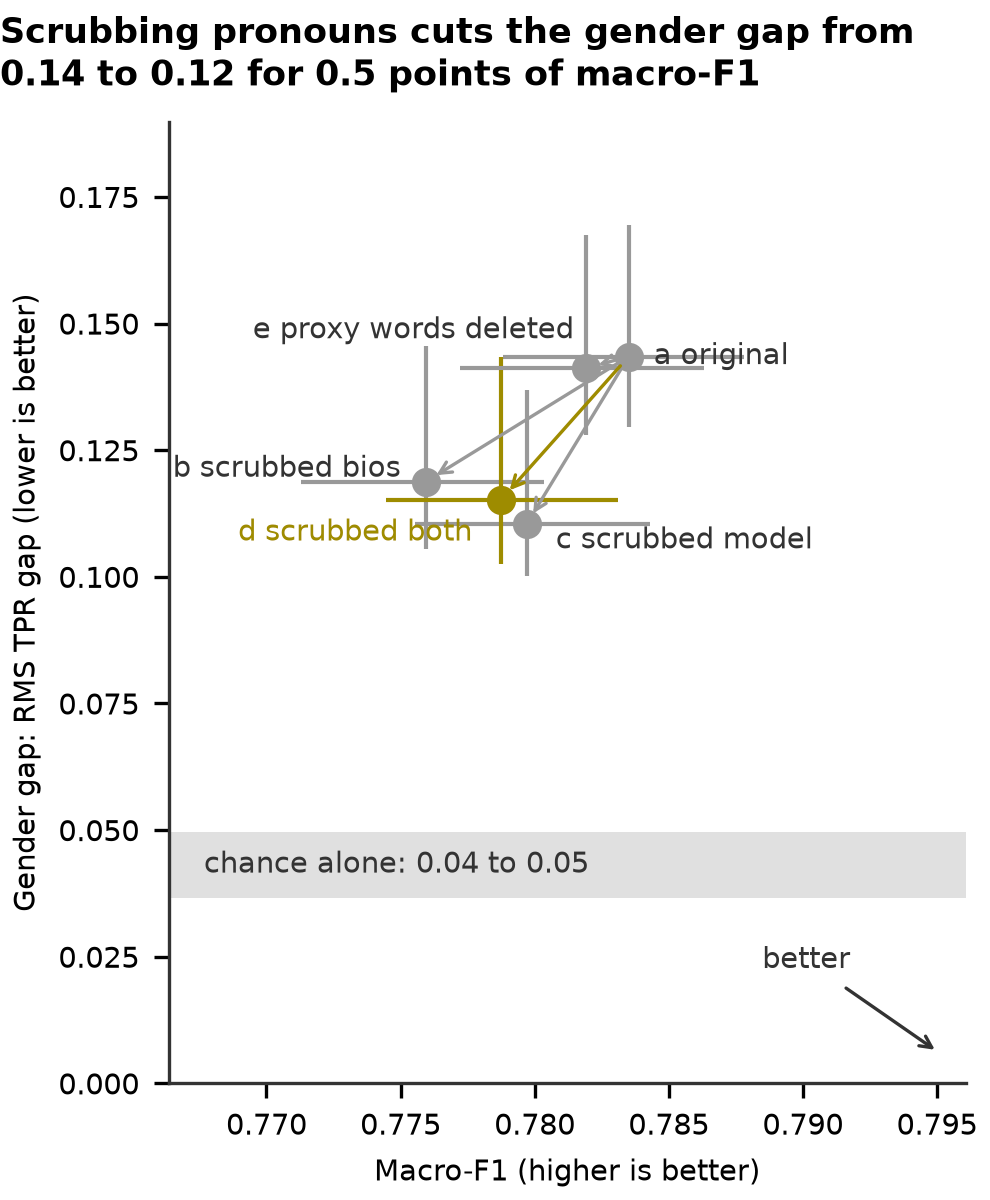
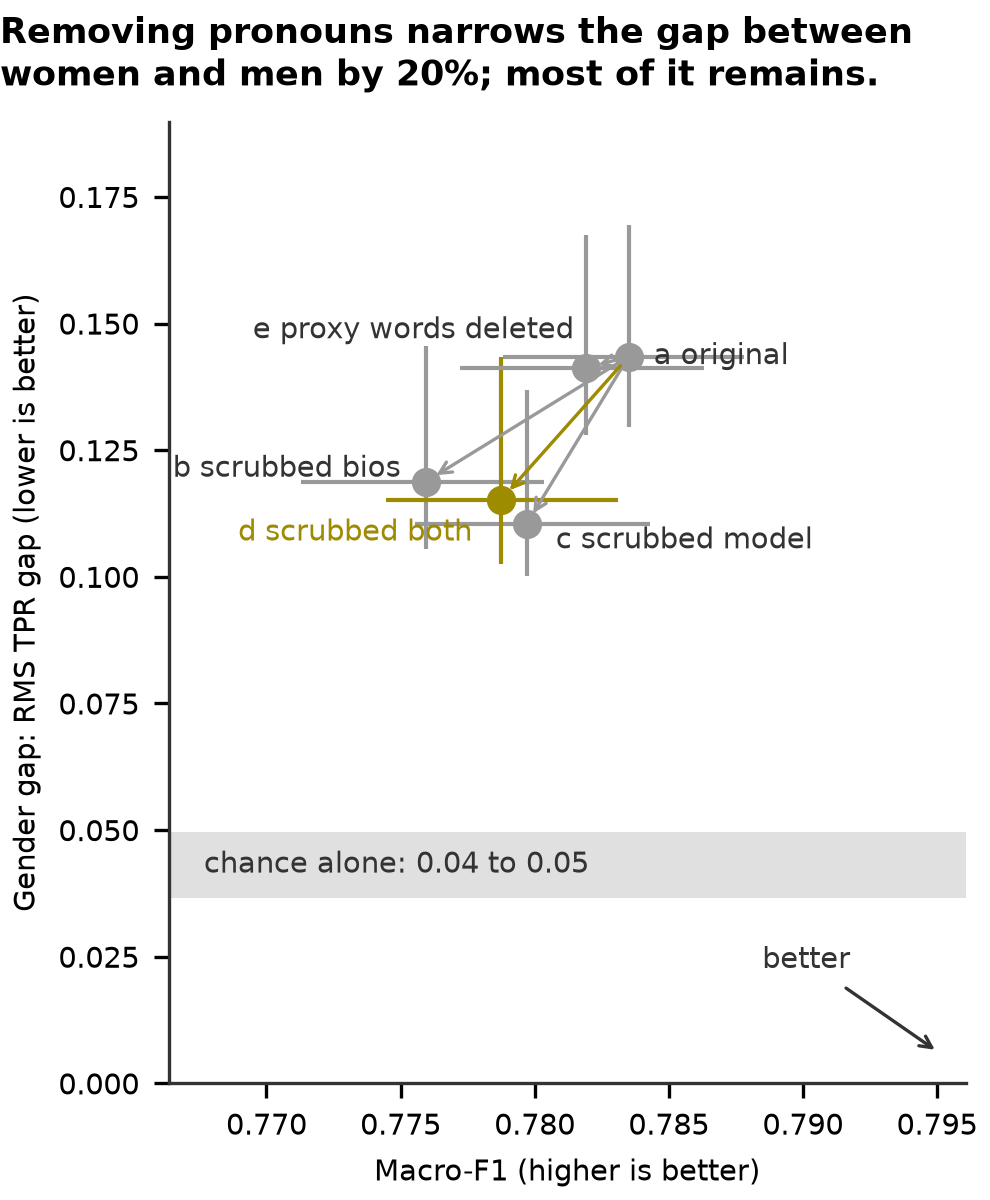
feat: F7 title states the finding in plain words; README says deleting proxy words barely moves the gap

Changed region(s): [[0.0, 0.0, 0.9091, 0.0925]]

diff --git a/scripts/figure_f7.py b/scripts/figure_f7.py
@@ -41,27 +41,20 @@ def _verdict(change: dict) -> int:
 
 
 def title(report: dict) -> str:
-    """The finding for condition d: what scrubbing does to the gap and to macro-F1.
+    """The finding for condition d, in plain words: by how much scrubbing changes the gap.
 
-    The gap and macro-F1 "fall" or "rise" only when the interval of the paired change excludes 0.
+    The gap narrows or widens only when the interval of the paired change excludes 0.
     """
-    block = _block(report, HEADLINE)
-    gap_change = block["change_from_a"]["rms_tpr_gap"]
-    f1_change = block["change_from_a"]["macro_f1"]
     before = _block(report, ORIGINAL)["rms_tpr_gap"]["value"]
-    after = block["rms_tpr_gap"]["value"]
-    gap = {
-        -1: f"cuts the gender gap from {before:.2f} to {after:.2f}",
-        0: f"does not change the gender gap ({before:.2f} to {after:.2f})",
-        1: f"raises the gender gap from {before:.2f} to {after:.2f}",
-    }[_verdict(gap_change)]
-    points = abs(f1_change["value"]) * 100
-    accuracy = {
-        -1: f"for {points:.1f} points of macro-F1",
-        0: "and leaves macro-F1 unchanged",
-        1: f"and macro-F1 by {points:.1f} points",
-    }[_verdict(f1_change)]
-    return f"Scrubbing pronouns {gap} {accuracy}"
+    after = _block(report, HEADLINE)["rms_tpr_gap"]["value"]
+    change = round(100 * abs(after - before) / before)
+    verdict = _verdict(_block(report, HEADLINE)["change_from_a"]["rms_tpr_gap"])
+    if verdict == 0:
+        return "Removing pronouns leaves no clear change in the gap between women and men."
+    if verdict == 1:
+        return f"Removing pronouns widens the gap between women and men by {change}%."
+    remains = "; most of it remains" if after > before / 2 else ""
+    return f"Removing pronouns narrows the gap between women and men by {change}%{remains}."
 
 
 def build(report: dict):

diff --git a/README.md b/README.md
@@ -18,7 +18,7 @@ This project uses explainable-AI methods to find out why: which words drive thes
 - **Some words stand in for gender.** For the job "model", the single strongest word is *freeones*, the name of a website listing adult performers. It appears in 54 of 150 women's bios and in none of the 150 men's. The model learned it as a sign of the job, and it only ever shows up for women.
 - **Swapping *she* for *he* rarely flips a decision.** It changes the decision for 7 of every 100 bios, about as often as simply deleting the pronouns does (6 of 100). The simpler baseline model reacts more: 14 against 9 of every 100.
 - **The explanations hold in aggregate, not word by word.** Removing the words the explanation ranks highest hurts the model far more than removing random words, so the explanations point at what matters. But the exact order of the words in one bio changes with how the explanation is computed, so the conclusions rest on totals over hundreds of bios.
-- **Removing the pronouns narrows the gap by a fifth and leaves most of it.** Training and scoring on bios without pronouns brings the gap between women and men from 0.143 to 0.115 for half a point of macro-F1, still more than twice what chance gives. I would recommend it as a first step, not as a fix: in the job "model" the model passes on 40 more qualified women than men per 100 of each, against 44 before. Deleting the six words that stand in for gender changes nothing ([details](docs/results.md#f7-does-removing-the-cues-close-the-gap)).
+- **Removing the pronouns narrows the gap by a fifth and leaves most of it.** Training and scoring on bios without pronouns brings the gap between women and men from 0.143 to 0.115 for half a point of macro-F1, still more than twice what chance gives. I would recommend it as a first step, not as a fix: in the job "model" the model passes on 40 more qualified women than men per 100 of each, against 44 before. Deleting the six words that stand in for gender barely moves it ([details](docs/results.md#f7-does-removing-the-cues-close-the-gap)).
 - **A more accurate model is not a fairer one.** The transformer is right more often than a simple word-count baseline (84 against 80 of every 100 bios), but its gap between women and men is not clearly smaller.
 
 ## Why it matters
